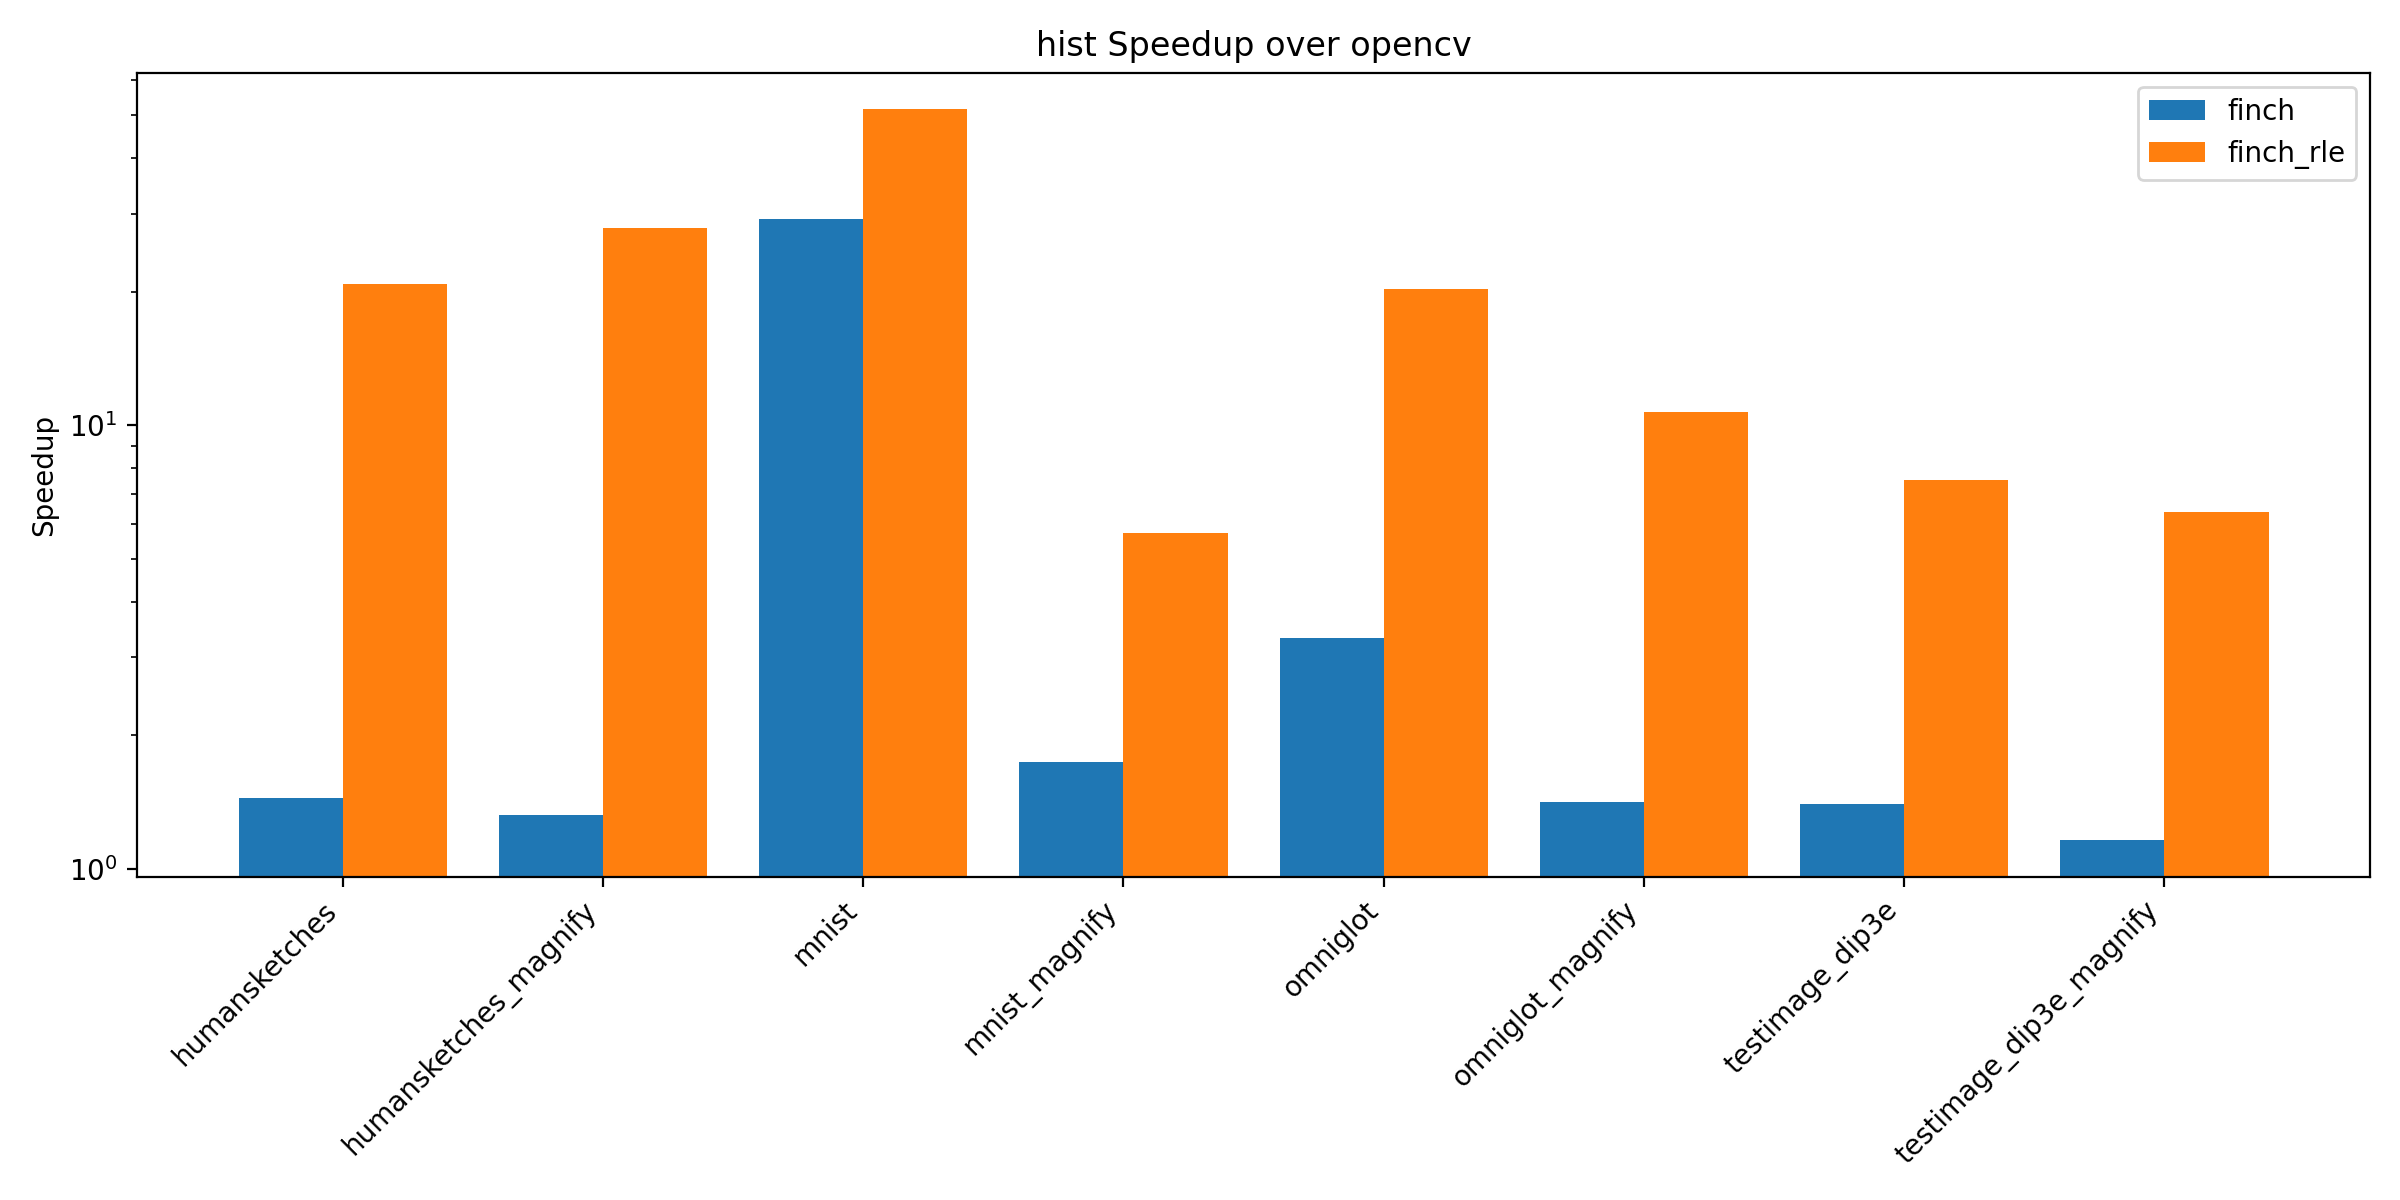
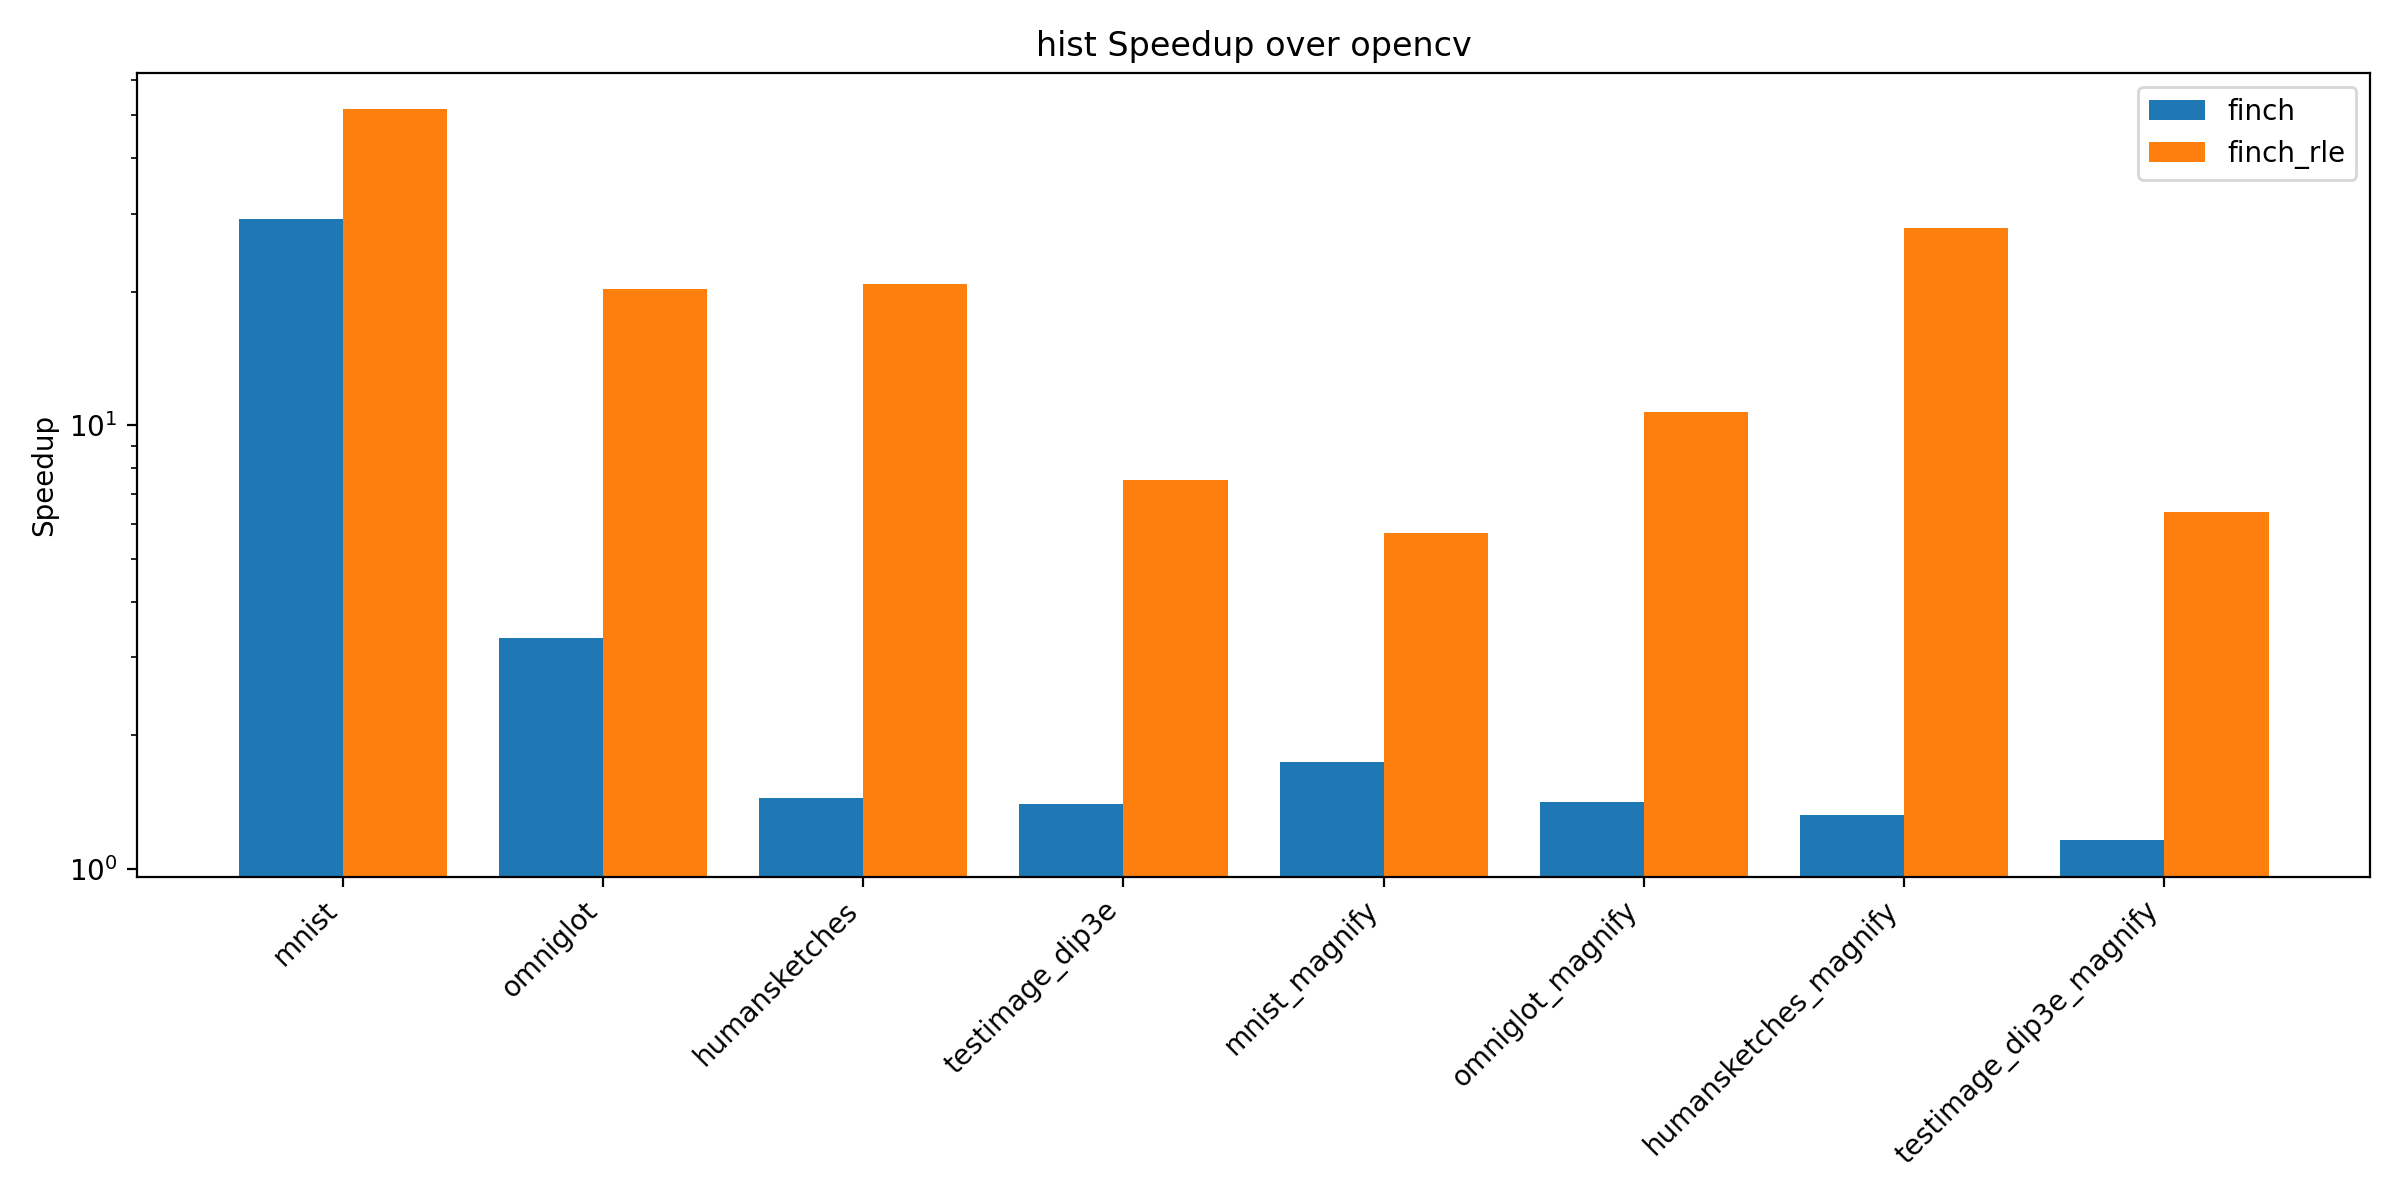
fix

diff --git a/morphology/chart.py b/morphology/chart.py
@@ -47,7 +47,7 @@ def generate_chart_for_operation(operation, baseline_method="opencv", log_scale=
         geomean_data[method] = {dataset: gmean(speedups) for dataset, speedups in datasets.items()}
 
     # Plot
-    datasets = sorted(datasets)  # Sort datasets for consistent plotting
+    #datasets = sorted(datasets)  # Sort datasets for consistent plotting
     methods = sorted(geomean_data.keys())
     make_grouped_bar_chart(methods, datasets, geomean_data, title=f"{operation} Speedup over {baseline_method}", log_scale=log_scale)
 
